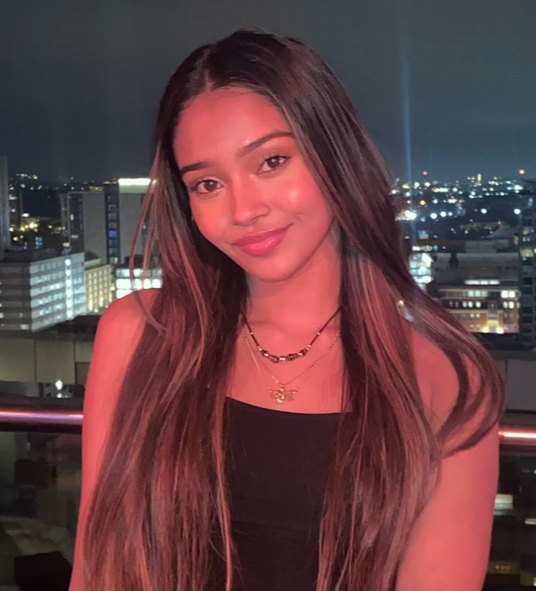
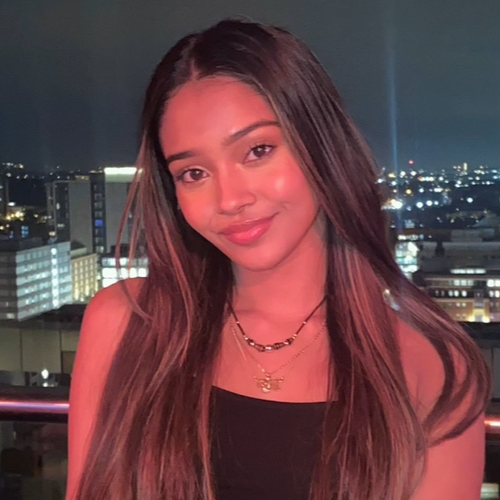
fix images for the about page

diff --git a/client/src/data/team.js b/client/src/data/team.js
@@ -2,8 +2,9 @@ import jacquelynPhoto from "../images/jacquelyn.jpg";
 import oliviaPhoto from "../images/olivia.jpg";
 import paolaPhoto from "../images/paola.png";
 import phoebePhoto from "../images/phoebe.jpeg";
-import soojinPhoto from "../images/soojin.jpg";
+import soojinPhoto from "../images/soojin.png";
 import rayahPhoto from "../images/rayah.jpg";
+import avatar from "../images/avatar.png";
 
 const TEAM = [
   {
@@ -56,7 +57,7 @@ const TEAM = [
   },
   {
     name: "Rania",
-    photo: "",
+    photo: avatar,
     hobbies: [
       "Hey there! I'm someone who finds joy in the little things. Playing the piano is my way of unwinding, whether it’s getting lost in a classical piece or just jamming out to something fun.",
       "I'm a huge foodie. I love checking out new restaurants to find my next favorite dish. And when I'm not eating out, I'm probably in the kitchen trying to whip up something delicious myself.",
